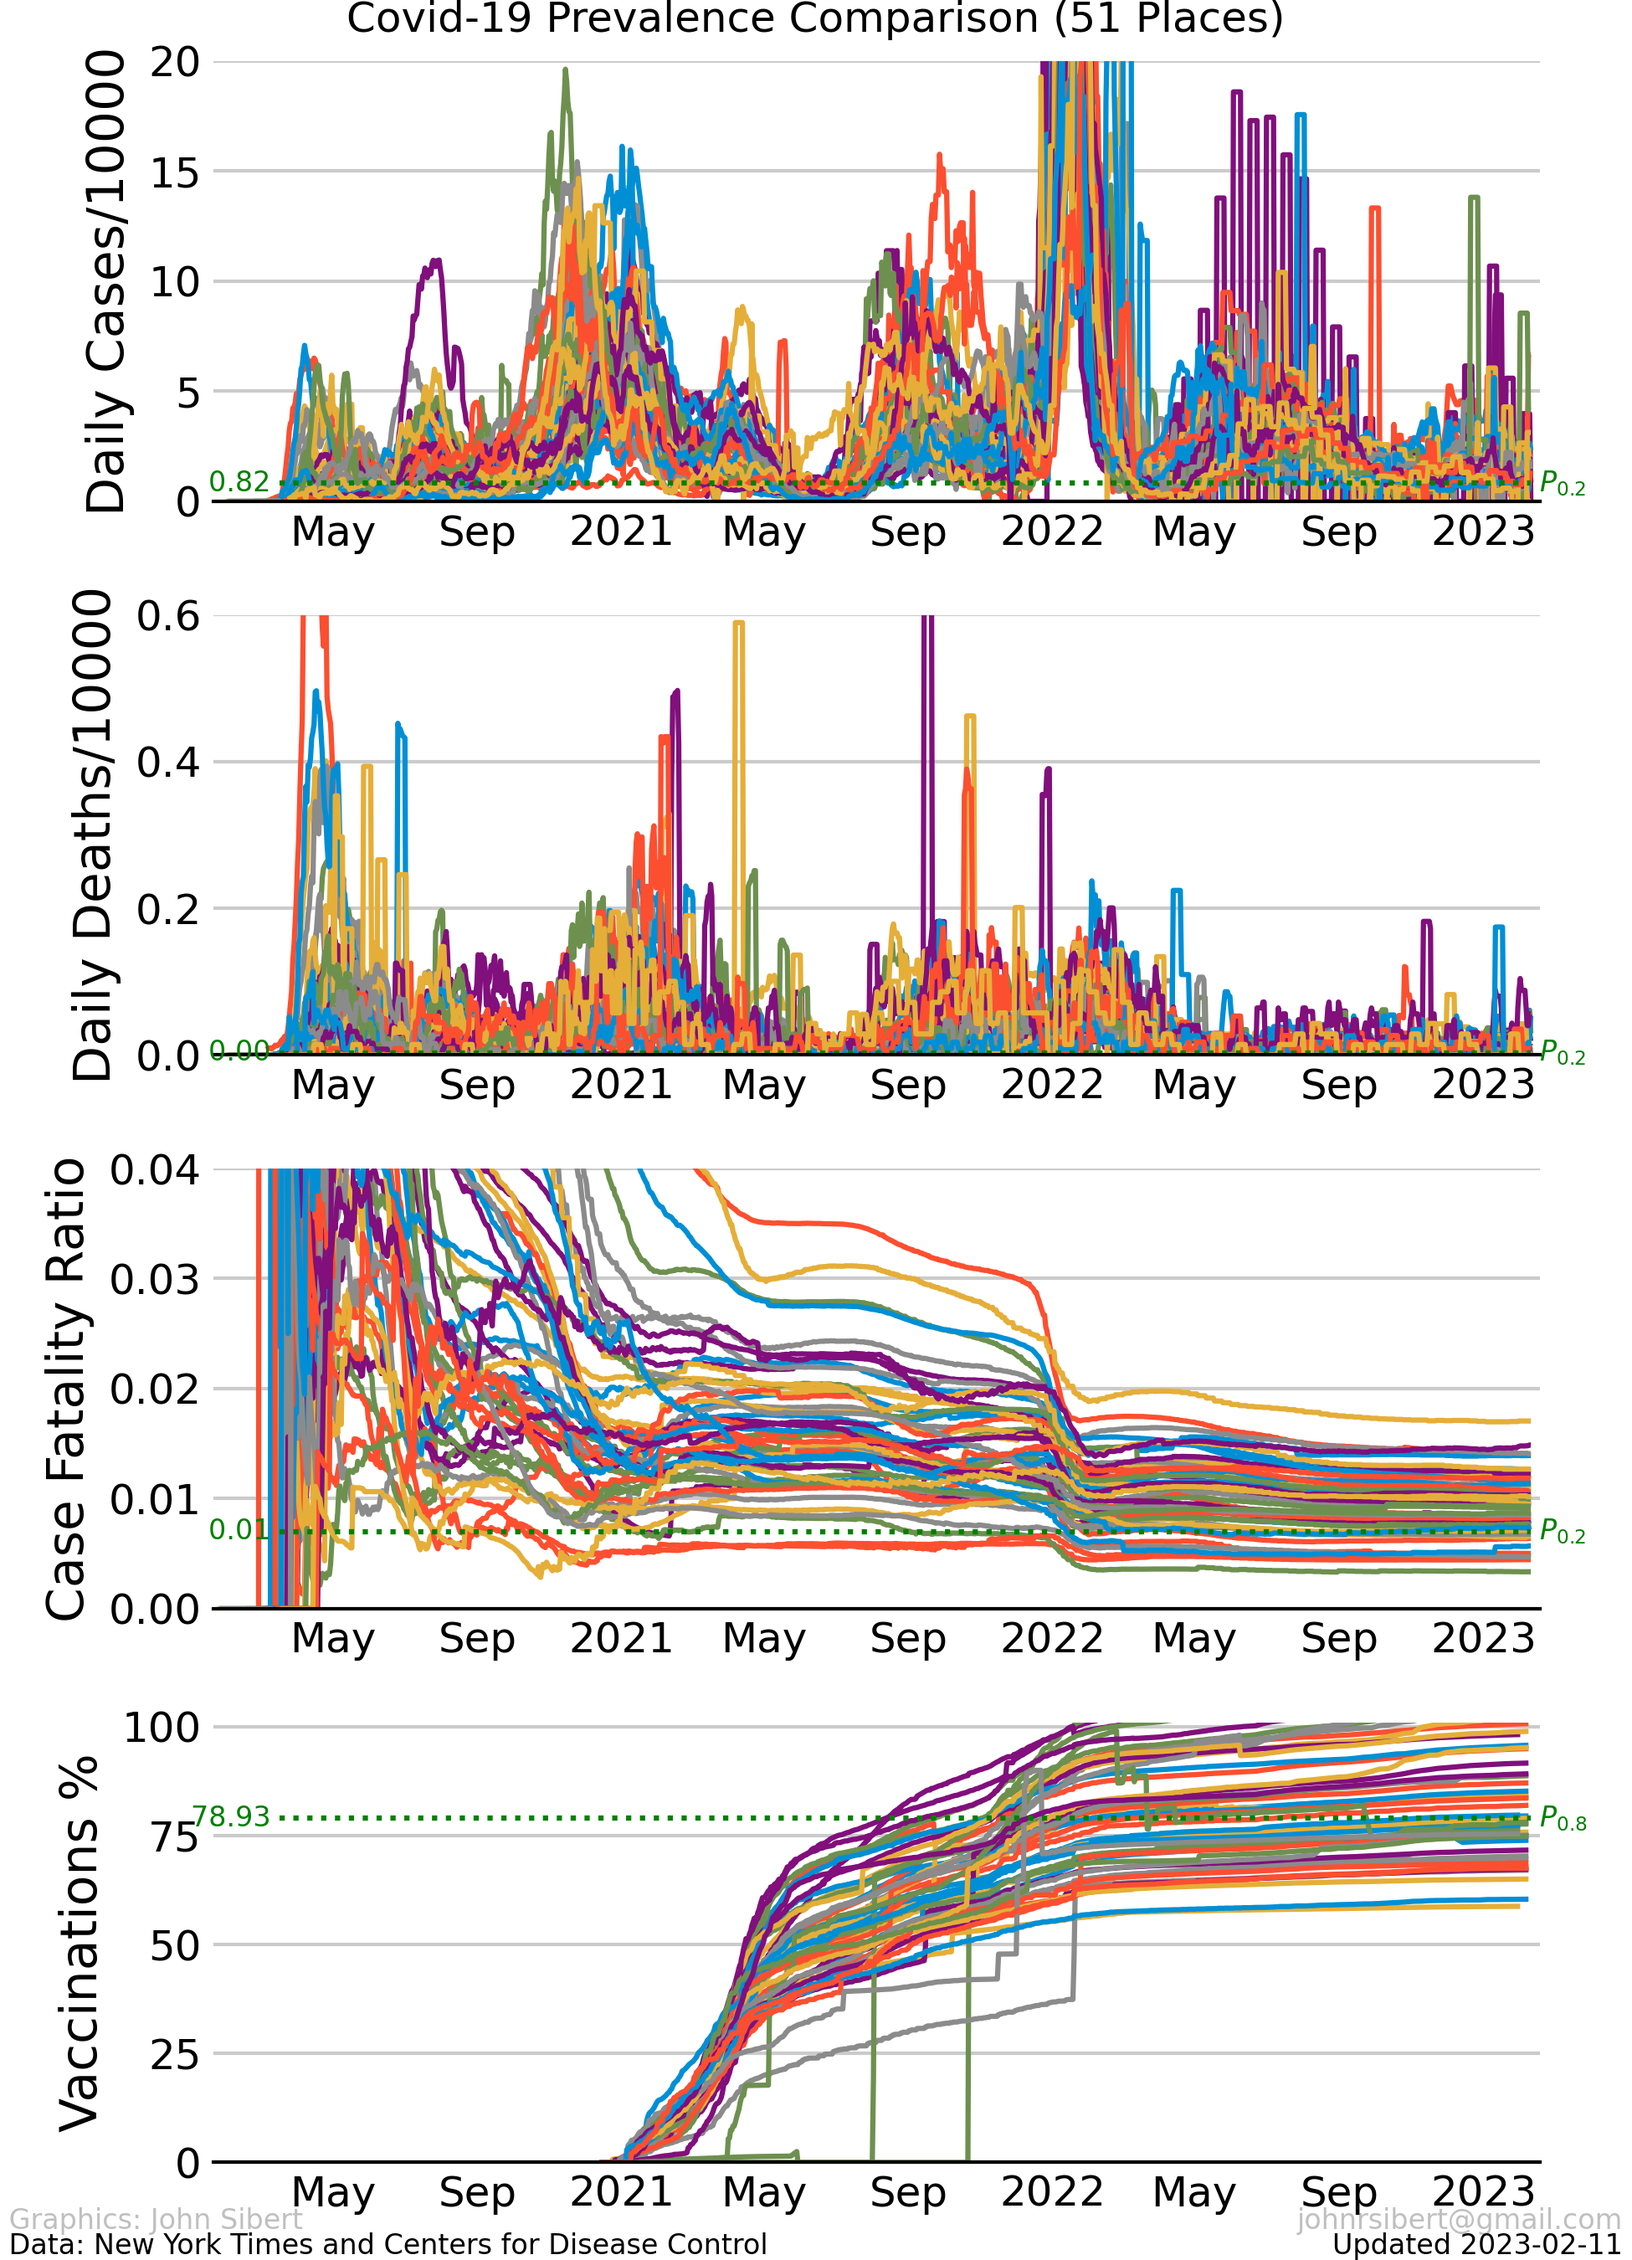
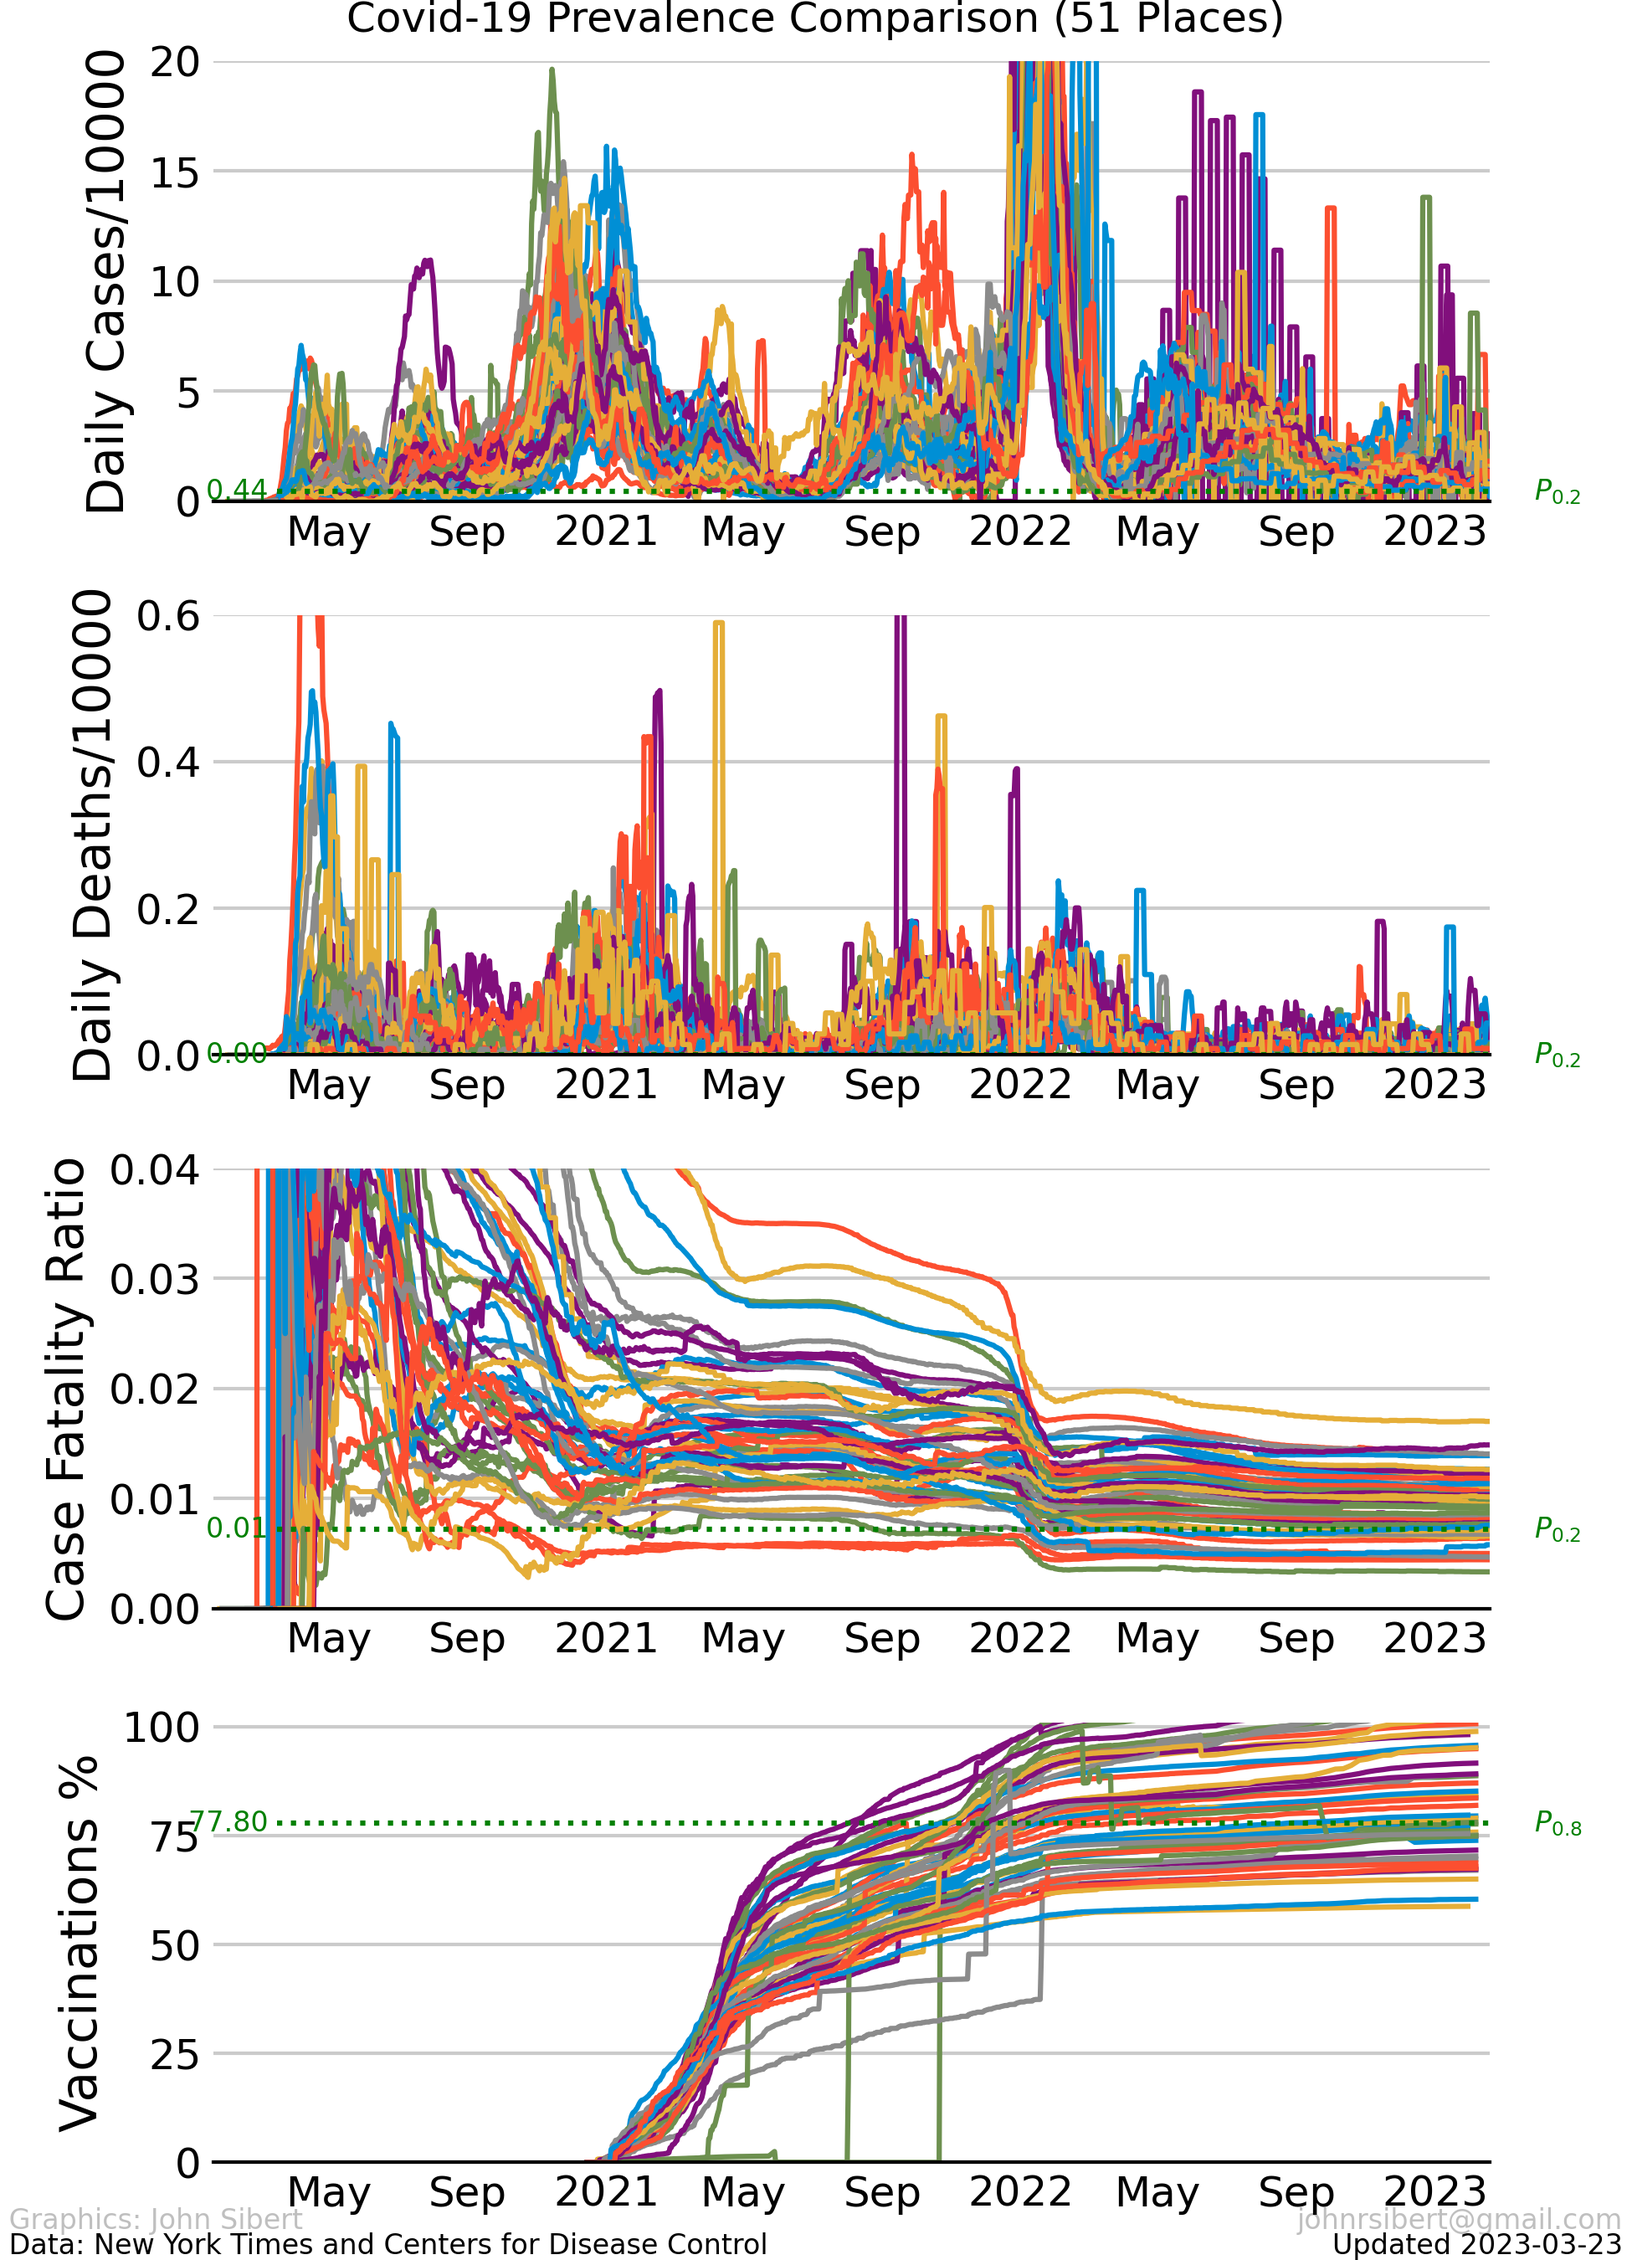
final (?) commit

diff --git a/python/cv22.py b/python/cv22.py
@@ -954,7 +954,7 @@ GG.plot_prevalence_comp_TS(flag='B',save=True, signature=True,qq=qq,
 #CFR.CFR_comp(nG=30, w = 23)
 # CFR.plot_CFR_ridge('CFR_ridge.csv')
 
-#update_everything(do_fits=False,do_web=True)
+update_everything() #do_fits=False,do_web=True)
 #git_commit_push()
 
 #GG.plot_prevalence_comp_TS(flag='B',save=True, signature=False,nax=3)
